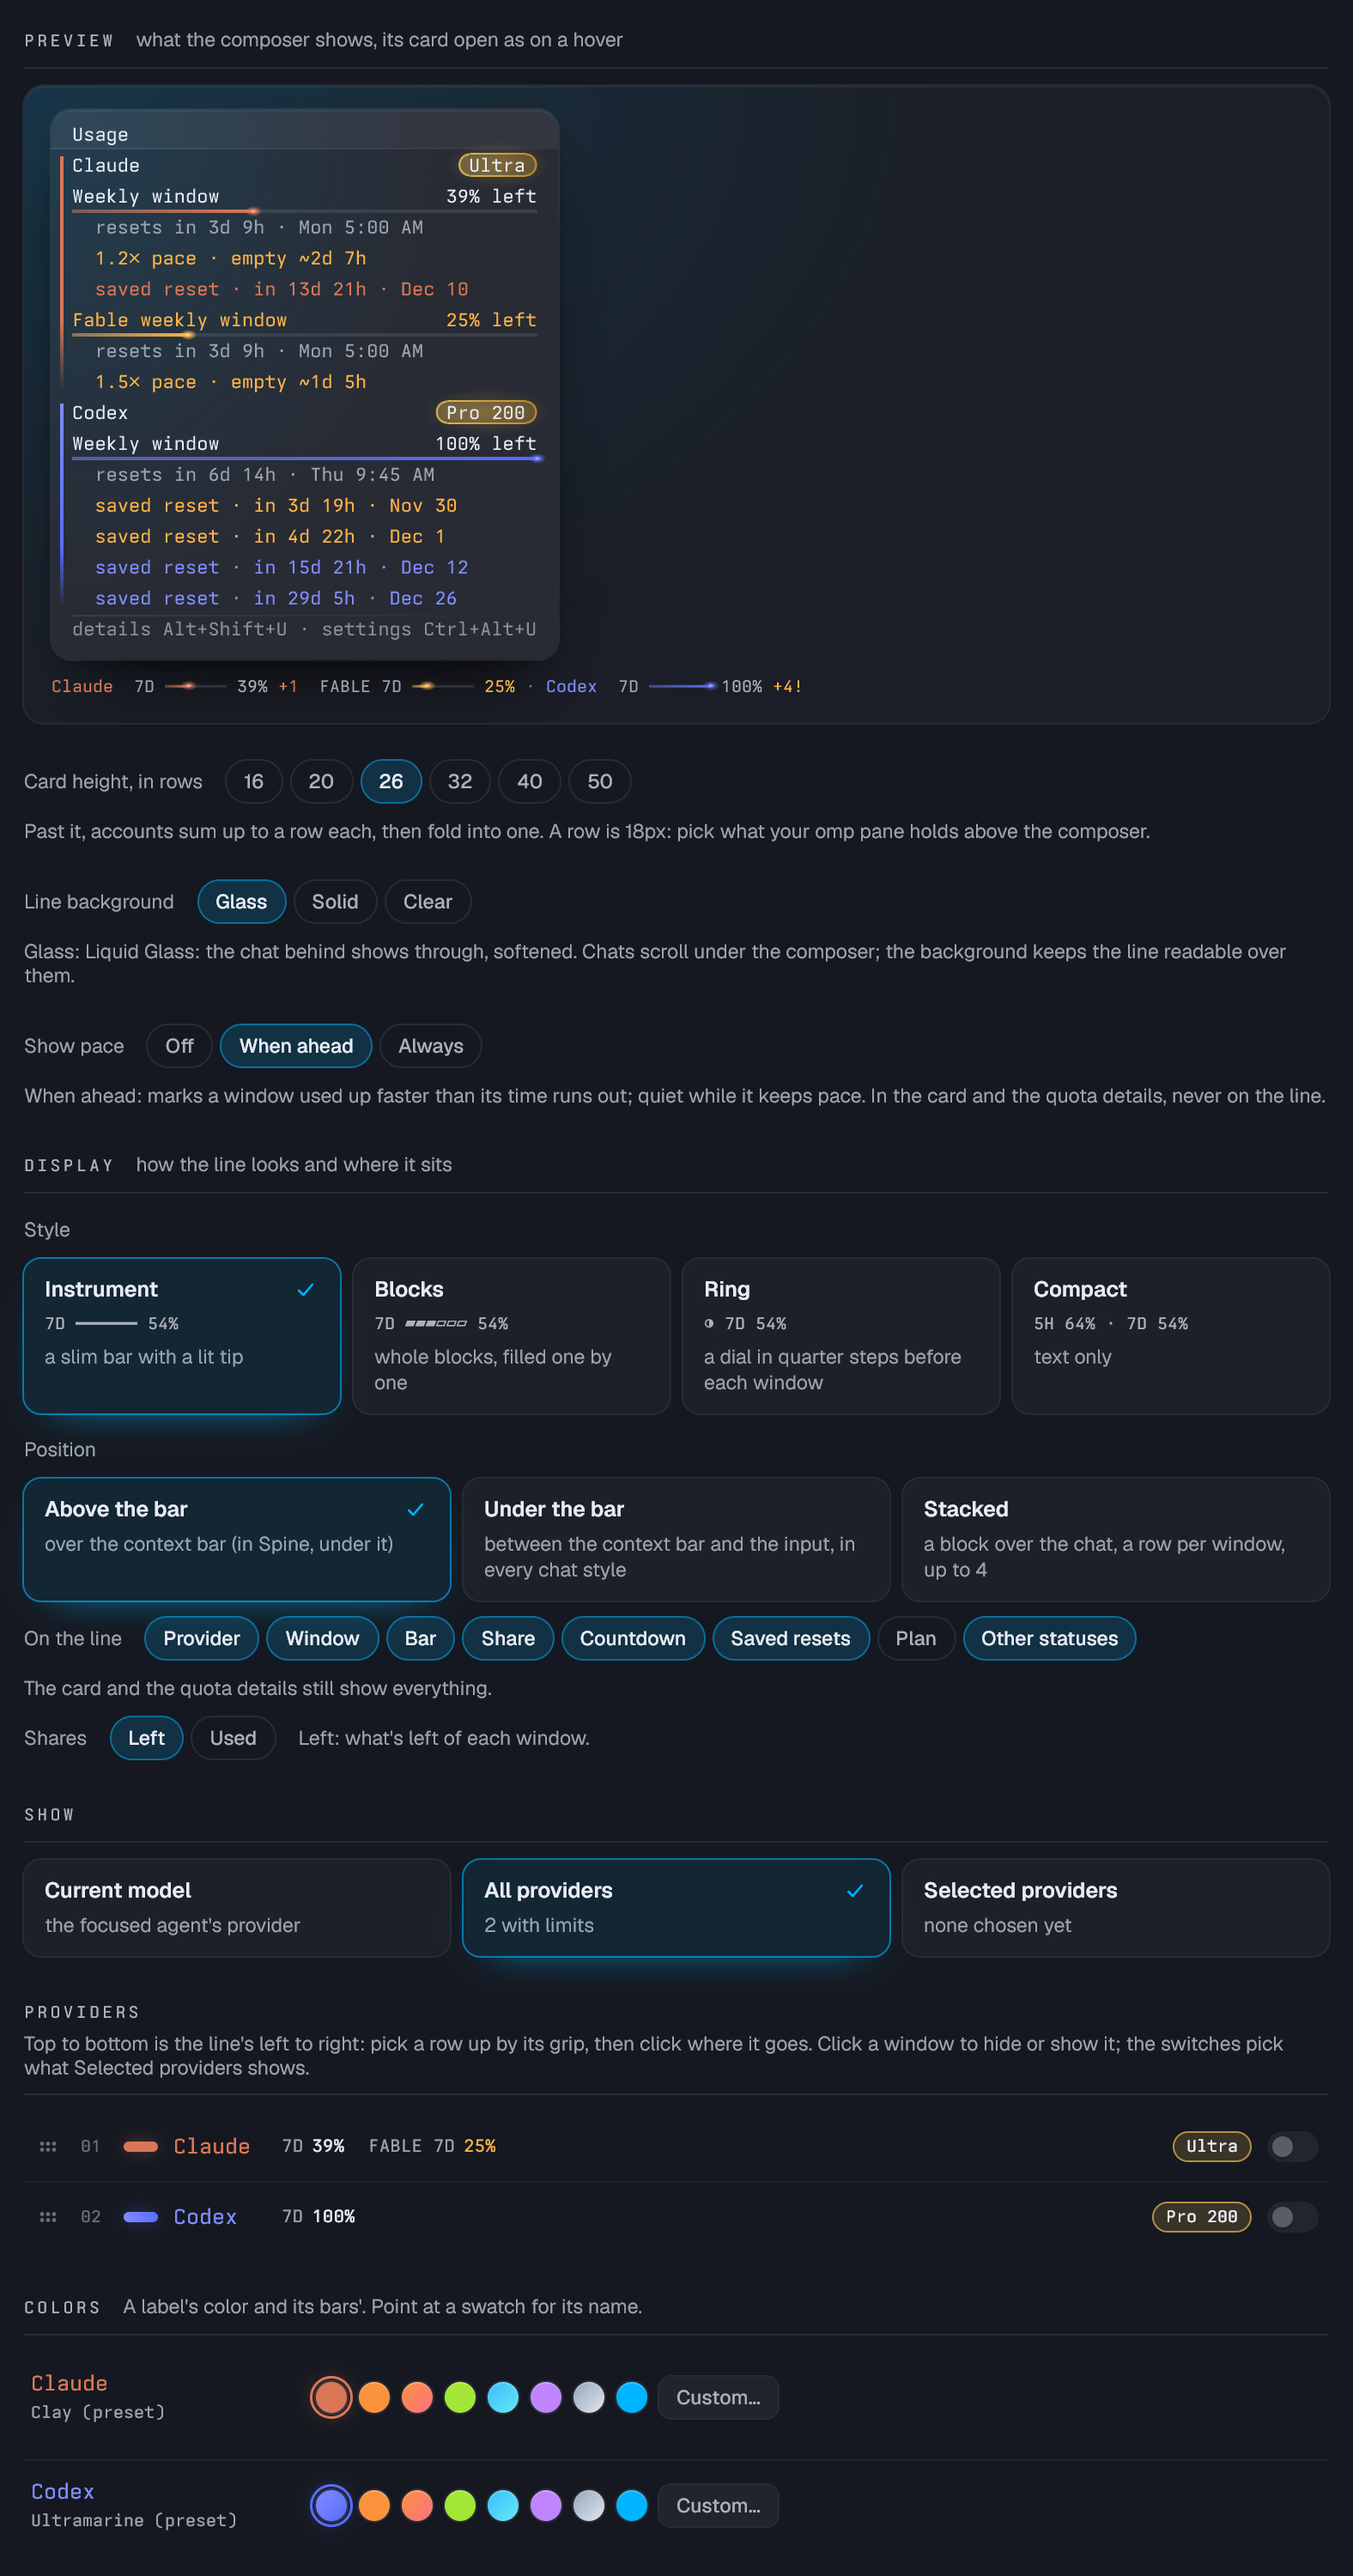
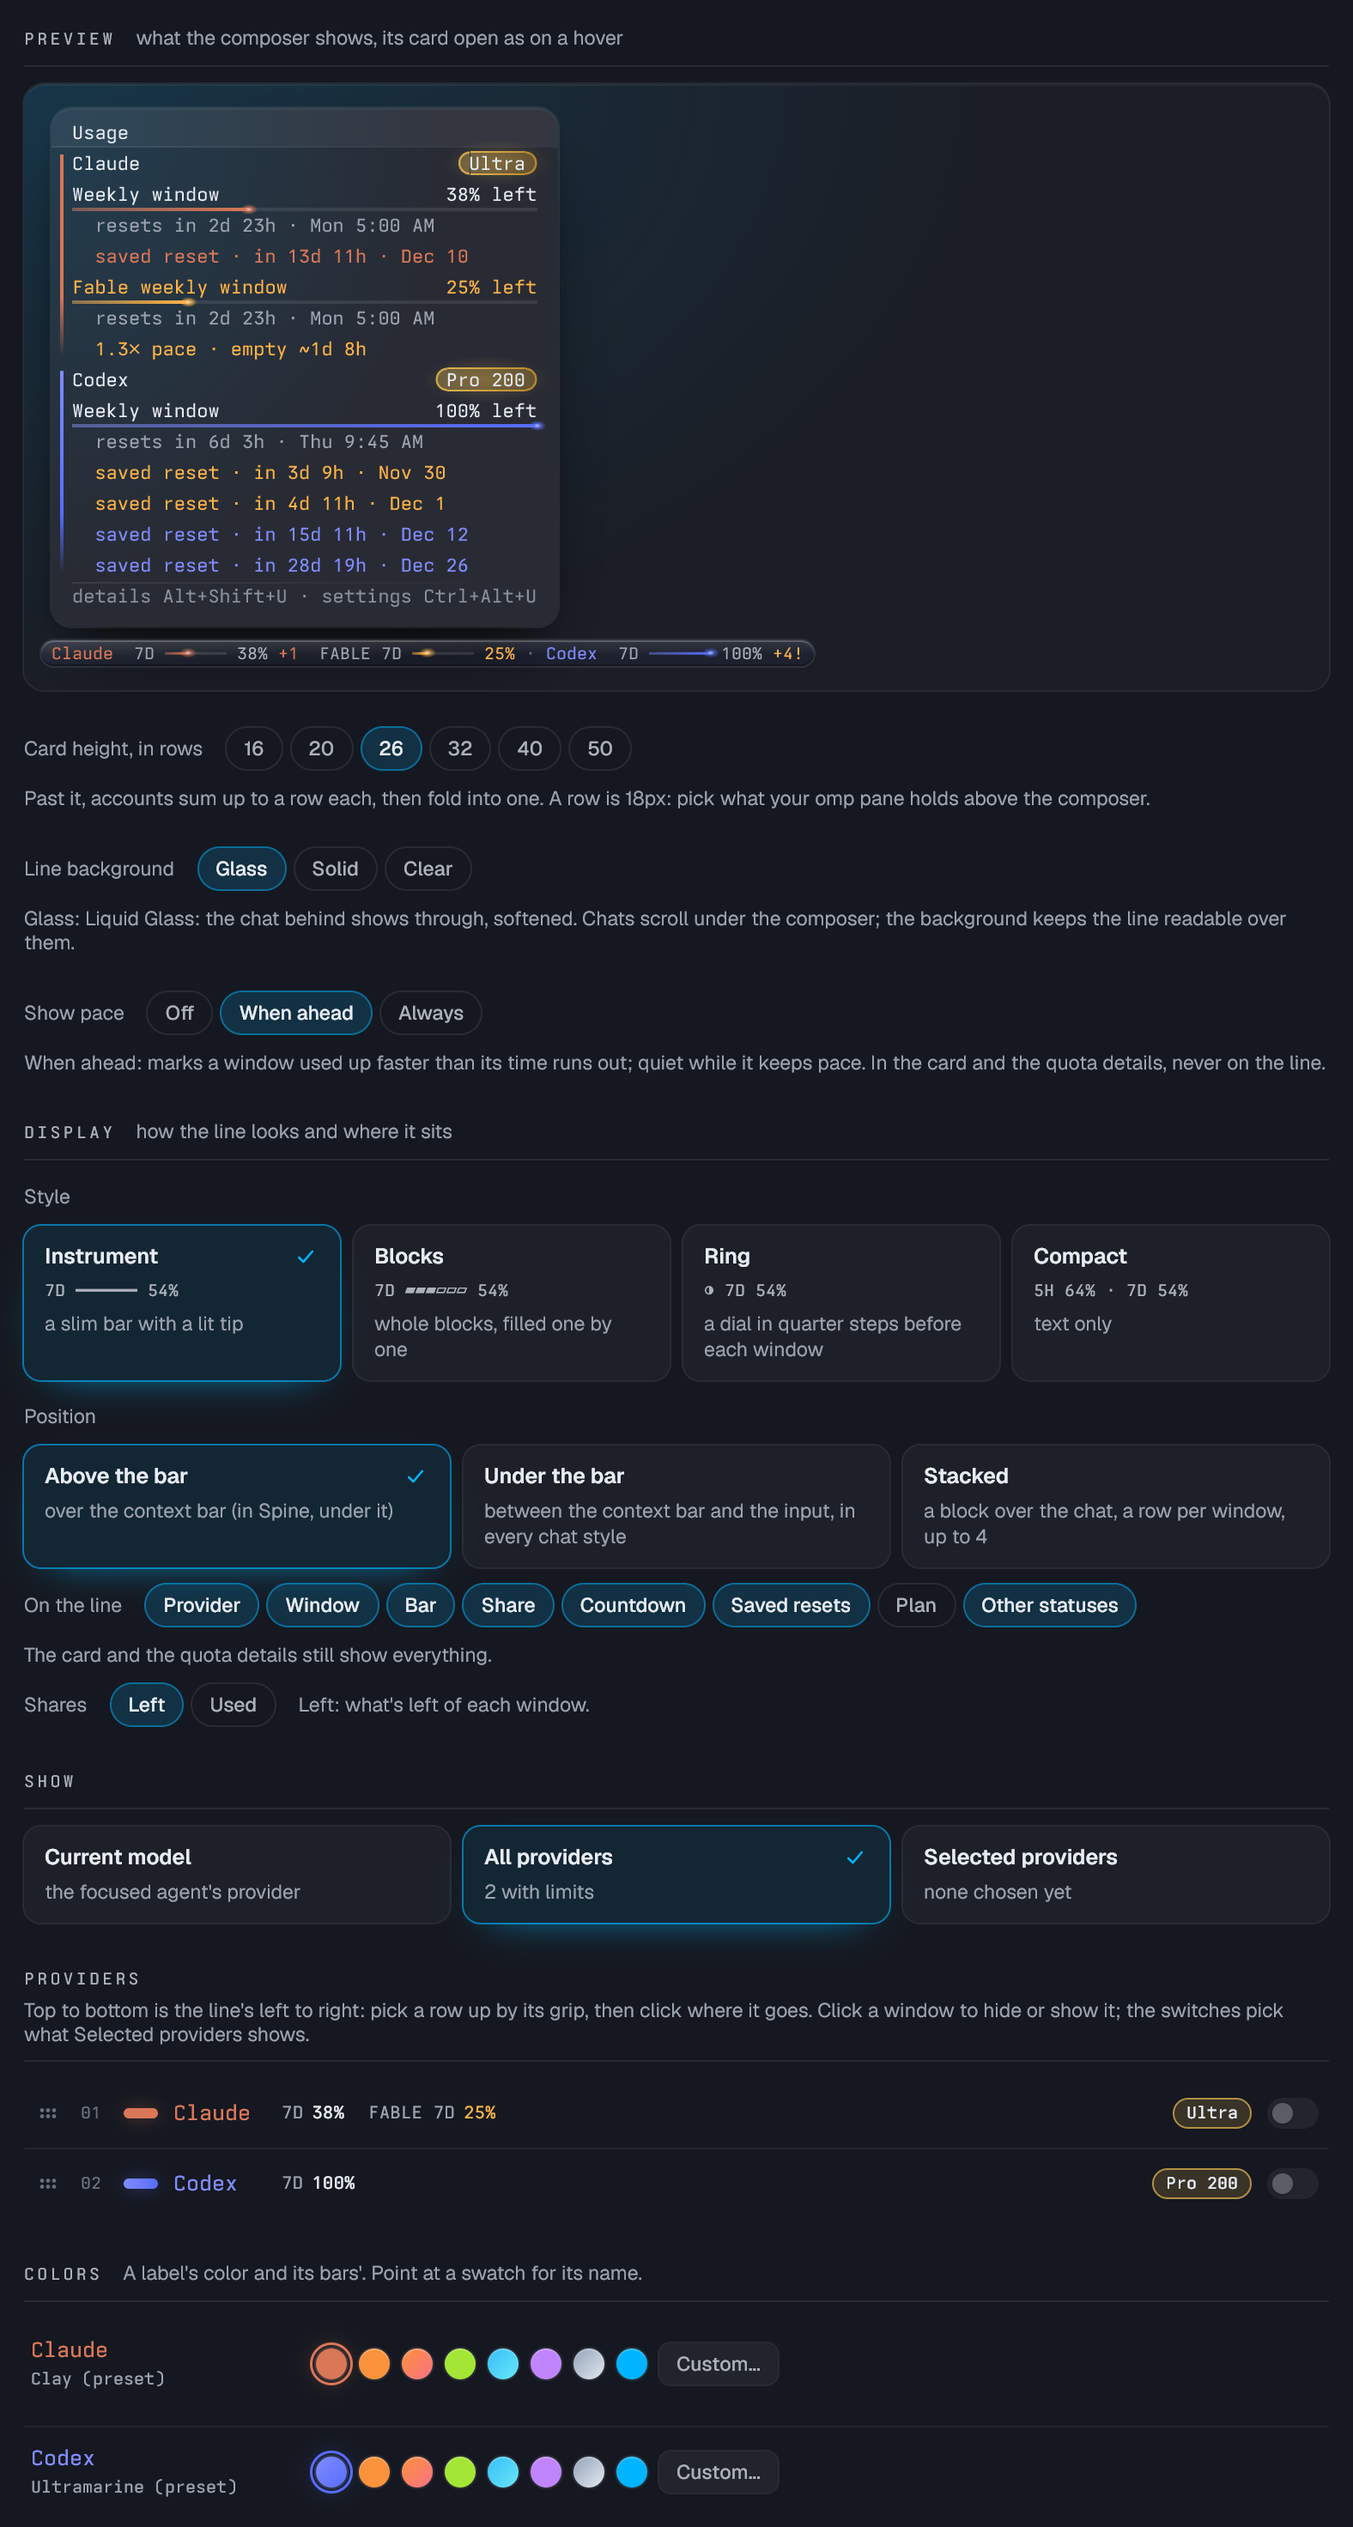
0.9.1: Keep keys in the update card and preview the line background
- The update card takes the keyboard when it opens. Before, typing
  at it landed in the omp pane behind it, and Esc there could stop a
  running turn.
- The settings panel's preview now draws the line on the Line
  background you picked (Glass, Solid or Clear), as the composer does.
- The README no longer says Esc closes the quota details or the
  update card: Tern doesn't pass Esc to them. Click outside, use
  Close, or press Ctrl+Shift+W.

diff --git a/README.md b/README.md
@@ -309,8 +309,10 @@ Every account and window in full, in a view of its own, with no row limit. Open 
 - **Quota details** at the end of the settings panel's bottom bar
 - **omp Usage: Quota details** in the palette
 
-It opens over the tab. Click outside it or press Esc to close it, or drag its header to keep it around. **Settings**
-swaps it for the settings panel (and the panel's **Quota details** swaps right back); **Close** closes it.
+It opens over the tab and takes the keyboard. To close it, click outside it, click **Close**, or press Ctrl+Shift+W
+(Tern's **Close block**). Esc doesn't close it, though Tern's footer under it says so (see
+[Troubleshooting](#troubleshooting)). Drag its header to keep it around. **Settings** swaps it for the settings panel
+(and the panel's **Quota details** swaps right back).
 
 Each provider or account gets a heading in its own color, then a box per window, side by side while they fit: the
 share, a bar in the line's colors, and its resets, pace and notes. A window running low is ringed amber, and red when
@@ -341,7 +343,7 @@ Changes apply right away, in every window.
 
 | Section | What it does |
 | --- | --- |
-| Preview | The line and its card, drawn for the last omp pane you used. Under it, **Card height**: 16 to 50 rows, 26 by default. An estimate under a bar takes a row; everything else Keeper reports goes in the quota details. Then **Line background**: Glass (default), Solid, or Clear. Then **Show pace**: Off, When ahead (default), or Always (see [Pace](#pace)) |
+| Preview | The line and its card, drawn for the last omp pane you used, the line on the background you picked. Under it, **Card height**: 16 to 50 rows, 26 by default. An estimate under a bar takes a row; everything else Keeper reports goes in the quota details. Then **Line background**: Glass (default), Solid, or Clear, which the preview's line takes as you click. Then **Show pace**: Off, When ahead (default), or Always (see [Pace](#pace)) |
 | Display | How the line looks and where it sits (see [Display](#display)). **Style**: Instrument (default), Blocks, Ring or Compact. **Position**: Above the bar (default; in Spine, under it), Under the bar, or Stacked (a block over the chat, a row per window, up to 4; past that the last row sums up the rest), at the composer's **Right** (default) or **Left**. **On the line**: provider, window, bar, share, countdown, saved resets, plan (a gold pill, off by default) and other statuses; a window keeps its bar or its share. **Shares**: Left (default) or Used, on the line, the card and the quota details |
 | Show | **Current model** (default), **All providers** (countdowns move to the card), or **Selected providers**. When there's no quota data for them, the line falls back to the focused session's own status |
 | Providers | Pick a row up by its grip, then click where it goes. Click a window to hide or show it everywhere. The switch adds the provider to Selected. A provider or account whose plan is known shows it as a gold pill beside its switch: click the pill to leave that plan out of the card and the quota details (it fades and is struck through), again to show it. With several accounts, each one gets its own row: grip, name (click it to show only that account, again for all), windows, plan, and a switch that takes it off the line, the card and the quota details. A chip next to the provider says what's showing, with a button for the next option: `all 8 accounts` with **combine**, `combined · 10 accounts ✕` with **by plan**, `by plan · 2 Max, 4 Pro, 4 Ultra ✕` (or `by plan · 6 with 5H, 4 without ✕`) with **all in one**, or `only dev.ops ✕`. Grouped by windows, each account's row is tagged with its group (`5H`, `no 5H`) |
@@ -353,7 +355,7 @@ Changes apply right away, in every window.
 External quota sources are set up in a file, not the panel (see [External quota sources](#external-quota-sources)).
 Their accounts show up under Providers like omp's own.
 
-<img src="docs/images/settings-panel.png" alt="The settings panel: a preview of the line with its card open, Claude's weekly window with a pace row and a saved reset, its Fable weekly window in amber at 25% left with a 1.5× pace · empty ~1d 5h row, and Codex's weekly window with four saved resets; the Card height and Line background pills; Show pace with three pills, Off, When ahead (picked) and Always; the Display section with its four styles, Instrument picked, its three positions, Above the bar picked, the On the line pills, all on but Plan, and Shares on Left; the Show choices with All providers picked; Claude and Codex with their windows' shares, plan pills and Selected switches; and their color swatches" width="788">
+<img src="docs/images/settings-panel.png" alt="The settings panel: a preview of the line on its strip of Liquid Glass with its card open, Claude's weekly window at 38% left with a saved reset, its Fable weekly window in amber at 25% left with a 1.3× pace · empty ~1d 8h row, and Codex's weekly window with four saved resets; the Card height and Line background pills, Glass picked; Show pace with three pills, Off, When ahead (picked) and Always; the Display section with its four styles, Instrument picked, its three positions, Above the bar picked, the On the line pills, all on but Plan, and Shares on Left; the Show choices with All providers picked; Claude and Codex with their windows' shares, plan pills and Selected switches; and their color swatches" width="788">
 
 Further down, the Widget bar and Alerts sections, here with alerts on:
 
@@ -390,7 +392,7 @@ into one:
 In the panel, click an account's name to show only that one (click it again, or the chip next to the provider, to go
 back to all of them). The switches take accounts off the line and the card:
 
-<img src="docs/images/settings-accounts.png" alt="The settings panel with ten Claude accounts: the preview shows only dev.ops on the line and in its card, with pace rows under its weekly and Fable weekly windows, and the others summed up a row each; under it the Card height and Line background pills, Show pace's Off, When ahead (picked) and Always pills, and the Display and Show sections; then the chip only dev.ops beside Claude and a row per account with its grip, name, windows, plan and switch, dev.ops tagged only, claude-team@pinegg and max-plan-2 switched off and struck through, the rest faded; Codex below" width="788">
+<img src="docs/images/settings-accounts.png" alt="The settings panel with ten Claude accounts: the preview shows only dev.ops on the line, on its strip of Liquid Glass, and in its card, with pace rows under its weekly and Fable weekly windows, and the others summed up a row each; under it the Card height and Line background pills, Show pace's Off, When ahead (picked) and Always pills, and the Display and Show sections; then the chip only dev.ops beside Claude and a row per account with its grip, name, windows, plan and switch, dev.ops tagged only, claude-team@pinegg and max-plan-2 switched off and struck through, the rest faded; Codex below" width="788">
 
 That gives the line room for all of that account's windows, and the card sums up the others in a row each:
 
@@ -469,7 +471,11 @@ have, and every new commit in full.
 | --- | --- |
 | **Download Update** | Brings the plugin (and an installed copy's omp extension) up to date and reloads it. The toast says if omp sessions need a restart |
 | **Skip This Version** | Hides the pill until the next plugin change |
-| **Not Now** / Esc | Closes the card. The pill stays |
+| **Not Now** | Closes the card. The pill stays |
+
+A click outside the card closes it too, and so does Ctrl+Shift+W (Tern's **Close block**). Esc doesn't, though Tern's
+footer under the card says so (see [Troubleshooting](#troubleshooting)). The card takes the keyboard while it's open,
+so nothing you type reaches the omp pane behind it.
 
 **Restart your omp sessions after an update** that changes the omp extension. A running session keeps the extension
 it started with, and once the extension's files change it stops writing the numbers every pane reads, so the line
@@ -552,6 +558,7 @@ A few things to know:
 | No alert toasts | Alerts are off by default (**Alerts** in the panel). They toast only crossings, not what was already low when you turned them on, and only numbers less than 30 minutes old |
 | Clicking the line does nothing | That's expected: Tern doesn't give plugins clicks on omp's composer. Use the shortcuts, or the gauge in the widget bar |
 | Alt+Shift+U or Ctrl+Alt+U does nothing | Another binding took it. Bind `plugin.omp-usage.details` or `plugin.omp-usage.panel` to something else |
+| Esc doesn't close the quota details or the update card | Tern's footer under them says `press esc to close`, but Tern passes no keys to a plugin's view and keeps Esc for itself, so the plugin can't act on it. Click outside, use **Close** or **Not Now**, or press Ctrl+Shift+W (Tern's **Close block**, or whatever you bound `close_pane` to) |
 | No update pill, or no gauge | Add the **Plugin segments** widget to Tern's widget bar (palette › Edit widgets…), or use the panel's Updates section. Checks might also be Off. The gauge only shows while an omp pane has focus |
 | The gauge in the widget bar never warns | It only warns while a window in the focused omp pane is at 1.1× its [pace](#pace) or more, and never while **Show pace** is Off |
 | `omp Usage can't check for updates` | It needs git on `PATH`; a clone needs a branch tracking a remote, and an installed copy needs its `upstream` file naming the repo (`https://github.com/jmazzola/tern-plugin-omp-usage.git`). The toast gives the reason |
